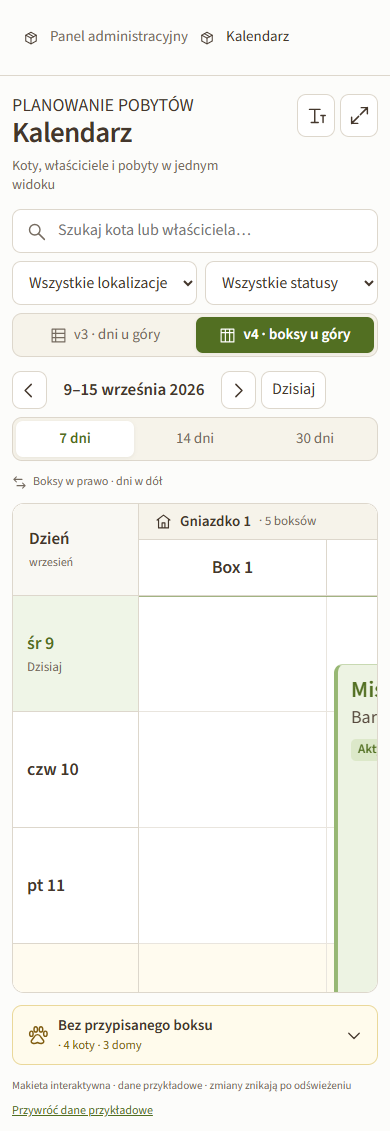
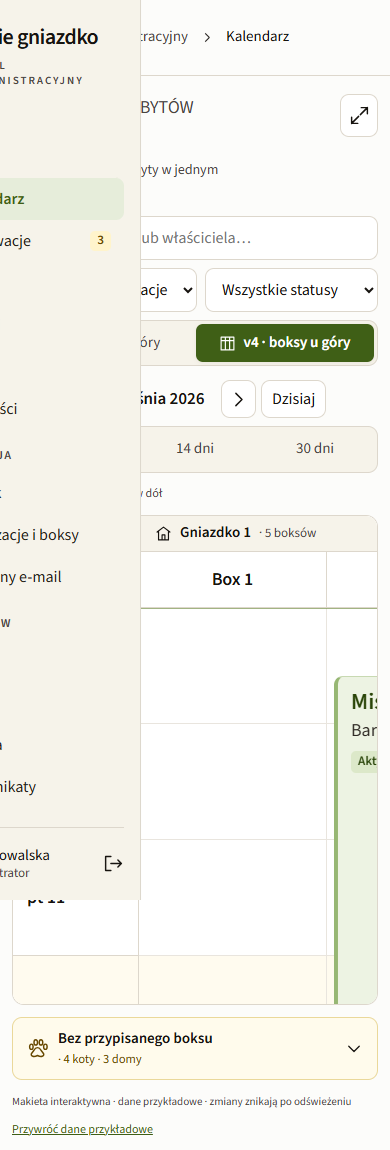
unify styles, improve contrast

diff --git a/mockups/admin/dashboard/mockup-dashboard.html b/mockups/admin/dashboard/mockup-dashboard.html
@@ -8,6 +8,13 @@
 <link href="https://fonts.googleapis.com/css2?family=Source+Sans+3:wght@400;500;600;700&display=swap" rel="stylesheet">
 <style>
 :root{--page:#FCFCFA;--subtle:#F6F3EA;--white:#fff;--selected:#EDF3E3;--ink:#44372C;--muted:#756C63;--line:#DDD7CC;--green:#526F22;--brand:#71942E;--yellow:#FFF4CC;--amber:#805D12;--blue:#285D7A;--blue-bg:#E8F2F8;--red:#9B3A2E}*{box-sizing:border-box}[hidden]{display:none!important}body{margin:0;background:var(--page);color:var(--ink);font:18px/1.5 'Source Sans 3',sans-serif;font-variant-numeric:tabular-nums}button,input,select{font:inherit}button,a,select{ -webkit-tap-highlight-color:transparent}button{cursor:pointer;color:inherit}button:focus-visible,a:focus-visible,select:focus-visible,input:focus-visible{outline:2px solid var(--green);outline-offset:4px}button{border:0;background:none}a{color:var(--green)}svg.icon{width:21px;height:21px;fill:none;stroke:currentColor;stroke-width:1.65;stroke-linecap:round;stroke-linejoin:round;flex-shrink:0}h1,h2,h3,p{margin:0}h1{font-size:32px;line-height:1.2;font-weight:600;letter-spacing:-.65px}h2{font-size:24px;line-height:1.3;font-weight:600;letter-spacing:-.4px}h3{font-size:18px;font-weight:600}.muted{color:var(--muted)}.small{font-size:15px}.sidebar{width:248px;position:fixed;inset:0 auto 0 0;display:flex;flex-direction:column;background:var(--subtle);border-right:1px solid var(--line);z-index:10}.brand{height:111px;padding:28px 25px 24px;display:flex;align-items:center;gap:12px;flex-shrink:0}.brand-mark{display:grid;place-items:center;width:43px;height:48px;color:var(--green)}.brand-mark svg{width:37px;height:37px;stroke-width:1.35}.brand-name{font-size:22px;line-height:1.02;font-weight:600;letter-spacing:-.6px}.brand-name small{display:block;font-size:11px;font-weight:600;letter-spacing:2px;color:var(--muted);margin-top:9px}.nav-scroll{overflow-y:auto;scrollbar-width:thin;flex:1;padding:0 16px 18px}.nav-group{margin-top:17px}.nav-group:first-child{margin-top:0}.nav-label{font-size:12px;letter-spacing:1.5px;font-weight:600;color:var(--muted);margin:0 14px 7px}.nav-item{display:flex;align-items:center;gap:12px;width:100%;text-align:left;font-size:16px;min-height:42px;padding:8px 13px;border-radius:8px;position:relative;color:#655a4e}.nav-item:hover{background:#ebe8dd}.nav-item.active{background:#e6edda;color:var(--green);font-weight:600}.nav-item.active:before{content:'';position:absolute;left:0;top:12px;bottom:12px;width:3px;border-radius:3px;background:var(--green)}.nav-count{margin-left:auto;background:var(--yellow);color:var(--amber);font-size:13px;font-weight:600;border-radius:5px;padding:0 7px}.profile{margin:0 16px;padding:18px 0;border-top:1px solid var(--line);display:flex;gap:10px;align-items:center;flex-shrink:0;font-size:15px}.avatar{width:38px;height:38px;border-radius:50%;background:#e6ddce;display:grid;place-items:center;font-size:14px;font-weight:600}.profile-text{line-height:1.3;flex:1}.profile-text small{font-size:13px;color:var(--muted)}.icon-button{display:grid;place-items:center;width:48px;height:48px;border-radius:10px}.icon-button:hover{background:var(--subtle)}.main{margin-left:248px}.topbar{height:76px;border-bottom:1px solid var(--line);display:flex;align-items:center;justify-content:space-between;padding:0 32px;background:var(--white);font-size:15px}.breadcrumb{display:flex;align-items:center;gap:12px}.breadcrumb svg{width:14px;height:14px;color:#a3988a}.top-right{display:flex;align-items:center;gap:22px}.top-right a{display:flex;align-items:center;gap:7px;text-decoration:none;color:var(--muted)}.top-right .icon{width:17px;height:17px}.topbar-state{display:flex;gap:7px;align-items:center;color:var(--muted)}.dot{width:6px;height:6px;background:var(--brand);border-radius:50%;display:inline-block}.content{max-width:1664px;margin:auto;padding:32px}.page-heading{display:flex;align-items:center;justify-content:space-between;gap:20px;margin-bottom:27px}.eyebrow{font-size:14px;color:var(--muted);margin-bottom:7px}.page-heading p{color:var(--muted);font-size:17px;margin-top:8px}.heading-actions{display:flex;align-items:center;gap:12px}.btn{display:inline-flex;align-items:center;justify-content:center;gap:8px;min-height:48px;padding:10px 16px;border:1px solid var(--line);border-radius:10px;background:var(--white);font-size:16px;font-weight:600;text-decoration:none;white-space:nowrap}.btn:hover{background:var(--subtle)}.btn.primary{background:var(--green);border-color:var(--green);color:white}.btn.primary:hover{background:#405719}.location{border:1px solid #8A8073;border-radius:10px;padding:11px 31px 11px 14px;min-height:48px;background:white;color:var(--ink);font-size:16px;max-width:100%}.stats{display:grid;grid-template-columns:repeat(4,minmax(0,1fr));gap:16px;margin-bottom:28px}.stat{background:white;border:1px solid var(--line);border-radius:12px;padding:18px 20px 17px;text-align:left;transition:border-color .15s}.stat:hover{border-color:var(--brand)}.stat-top{display:flex;align-items:center;justify-content:space-between;font-size:16px;color:var(--muted)}.stat-icon{width:34px;height:34px;display:grid;place-items:center;border-radius:9px;background:var(--subtle);color:var(--green)}.stat-number{font-size:36px;line-height:1.1;font-weight:600;letter-spacing:-1px;margin-top:10px}.stat-number span{font-size:16px;color:var(--muted);font-weight:400;letter-spacing:0}.stat-bottom{margin-top:8px;font-size:15px;color:var(--muted);display:flex;align-items:center;gap:6px}.stat-bottom svg{width:15px;height:15px}.stat.warm{background:#fffdf5}.stat.warm .stat-icon{background:var(--yellow);color:var(--amber)}.card{border:1px solid var(--line);border-radius:12px;background:white;overflow:hidden}.section-head{padding:23px 24px 19px;display:flex;align-items:center;justify-content:space-between;gap:12px}.title-line{display:flex;align-items:center;gap:10px}.count{display:inline-flex;align-items:center;justify-content:center;min-width:26px;height:26px;padding:0 8px;border-radius:7px;background:var(--subtle);font-size:14px;font-weight:600}.count.yellow{background:var(--yellow);color:var(--amber)}.section-head p{font-size:15px;color:var(--muted);margin-top:5px}.text-link{display:inline-flex;align-items:center;gap:7px;font-size:16px;font-weight:600;color:var(--green);padding:9px 0;text-decoration:none}.text-link .icon{width:17px;height:17px}.schedule{margin-bottom:24px}.schedule-tools{display:flex;align-items:center;justify-content:space-between;padding:0 24px 18px;gap:16px}.tabs{display:flex;align-items:center;gap:5px;background:var(--subtle);padding:4px;border-radius:10px}.tab{padding:8px 14px;font-size:16px;border-radius:7px;min-height:40px;color:var(--muted)}.tab.selected{background:white;color:var(--ink);font-weight:600;box-shadow:0 1px 4px #44372c12}.tab small{font-size:13px;margin-left:5px;color:var(--muted)}.table-wrap{overflow-x:auto}table{width:100%;border-collapse:collapse;font-size:16px;text-align:left}th{background:#faf9f5;border-top:1px solid #eee9e0;border-bottom:1px solid var(--line);color:var(--muted);font-size:14px;font-weight:500;padding:11px 13px}td{padding:17px 13px;border-bottom:1px solid #eeeae2;vertical-align:middle}th:first-child,td:first-child{padding-left:24px}th:last-child,td:last-child{padding-right:24px}tbody tr:last-child td{border-bottom:0}.time{font-size:18px;font-weight:600}.event{display:flex;gap:8px;align-items:center;font-size:15px;white-space:nowrap}.event .icon{width:18px;height:18px}.event.arrival{color:var(--green)}.event.departure{color:var(--blue)}.guest{display:flex;gap:10px;align-items:center}.cat-avatar{width:39px;height:39px;border-radius:50%;background:#f2ede3;color:#96754d;display:grid;place-items:center;flex-shrink:0}.cat-avatar.blue{background:#edf1f1;color:#718784}.cat-avatar.rose{background:#f7ece5;color:#a07f69}.guest-name{font-size:17px;font-weight:600;line-height:1.25}.subline{font-size:15px;color:var(--muted);margin-top:2px}.badge{display:inline-flex;align-items:center;gap:5px;font-size:14px;border-radius:6px;padding:3px 8px;white-space:nowrap;font-weight:500}.badge.green{background:var(--selected);color:var(--green)}.badge.blue{background:var(--blue-bg);color:var(--blue)}.badge.yellow{background:var(--yellow);color:var(--amber)}.badge.neutral{background:var(--subtle);color:var(--muted)}.money{font-size:15px;white-space:nowrap}.money.paid{color:var(--green);display:flex;gap:5px;align-items:center}.money svg{width:15px;height:15px}.money strong{font-weight:600}.row-action{border:1px solid var(--line);border-radius:8px;min-height:40px;padding:7px 12px;font-size:15px;font-weight:600;white-space:nowrap;color:var(--green)}.row-action:hover{border-color:var(--green);background:var(--selected)}.row-action.done{border:0;color:var(--muted);font-weight:400}.table-footer{padding:12px 24px;background:#fcfbf8;border-top:1px solid #eeeae2;font-size:14px;color:var(--muted);display:flex;gap:8px;align-items:center}.table-footer .icon{width:16px;height:16px}.two-col{display:grid;grid-template-columns:1.32fr 1fr;gap:24px;margin-bottom:24px}.request{padding:18px 24px;border-top:1px solid #eeeae2;display:flex;align-items:center;gap:13px;position:relative}.request:before{content:'';width:3px;position:absolute;left:0;top:19px;bottom:19px;background:#dfbb58;border-radius:0 3px 3px 0}.request-body{flex:1;min-width:0}.request-top{display:flex;align-items:center;gap:9px;margin-bottom:4px}.request-top strong{font-size:18px;font-weight:600}.request-bottom{display:flex;align-items:center;gap:9px;flex-wrap:wrap;font-size:15px;color:var(--muted)}.request-right{text-align:right;flex-shrink:0}.request-right .text-link{font-size:15px;min-height:40px}.request-right small{display:block;font-size:14px;color:var(--muted)}.box-note{font-size:14px;color:var(--amber);display:flex;gap:5px;align-items:center;margin-top:5px}.box-note .icon{width:14px;height:14px}.hotel-summary{margin:0 24px 19px;display:flex;align-items:center;gap:17px;padding:18px;background:var(--selected);border-radius:10px}.hotel-summary>svg{width:38px;height:38px;color:var(--green);stroke-width:1.3}.hotel-number{font-size:30px;font-weight:600;line-height:1.1;color:var(--green)}.hotel-number span{font-size:18px;font-weight:400;color:var(--ink)}.hotel-summary p{font-size:15px;color:#5f6c4d;margin-top:3px}.hotel-list{padding:0 24px}.hotel-location{padding:12px 0;display:flex;justify-content:space-between;align-items:center;border-top:1px solid #eeeae2;font-size:16px}.hotel-location>div{display:flex;gap:9px;align-items:center}.hotel-location svg{color:#938676;width:18px;height:18px}.hotel-location span{font-size:15px;color:var(--muted)}.hotel-footer{margin:10px 24px 0;padding:15px 0;border-top:1px solid #eeeae2;display:flex;justify-content:space-between;align-items:center;font-size:15px;color:var(--muted)}.hotel-footer .text-link{font-size:15px}.week{margin-bottom:24px}.week-head{display:flex;align-items:center;gap:18px}.legend{font-size:14px;color:var(--muted);display:flex;gap:13px}.legend span{display:flex;align-items:center;gap:6px}.legend i{width:7px;height:7px;border-radius:2px;background:#71942e}.legend span:last-child i{background:#6c96ac}.week-grid{display:grid;grid-template-columns:repeat(7,minmax(0,1fr));padding:0 24px 23px;gap:10px}.day{padding:14px 13px;border:1px solid #e7e1d7;border-radius:9px;text-align:left;background:#fff;min-height:139px}.day:hover{background:var(--subtle);border-color:var(--brand)}.day:first-child{background:#f5f7ef;border-color:#b6c69c}.day-label{font-size:14px;color:var(--muted);display:flex;justify-content:space-between;gap:4px}.day-date{font-size:23px;font-weight:600;margin:1px 0 12px;letter-spacing:-.5px}.day-date span{font-size:14px;font-weight:400;letter-spacing:0;color:var(--muted)}.day-count{font-size:14px;display:flex;gap:6px;align-items:center;line-height:1.65}.day-count .icon{width:15px;height:15px;color:var(--green)}.day-count:last-child .icon{color:var(--blue)}.bottom-col{display:grid;grid-template-columns:1fr 1fr;gap:24px}.attention .section-head .icon{color:var(--amber)}.attention-item{margin:0 24px;padding:17px 0;border-top:1px solid #eeeae2;display:flex;gap:12px;align-items:flex-start}.attention-symbol{width:29px;height:29px;display:grid;place-items:center;color:var(--amber);background:var(--yellow);border-radius:7px;flex-shrink:0}.attention-symbol.error{background:#FCEBE7;color:var(--red)}.attention-symbol svg{width:17px;height:17px}.attention-item>div:nth-child(2){flex:1}.attention-item h3{font-size:16px}.attention-item p{font-size:15px;color:var(--muted);margin-top:4px;line-height:1.45}.attention-item>button{color:var(--muted);min-height:40px;min-width:28px}.settlement-row{margin:0 24px;border-top:1px solid #eeeae2;padding:15px 0;display:flex;align-items:center;gap:12px}.settlement-row>div:nth-child(2){flex:1}.settlement-value{text-align:right;font-size:18px;font-weight:600}.settlement-value small{display:block;font-weight:400;font-size:14px;color:var(--muted)}.settlement-row .guest-name{font-size:16px}.settlement-row .subline{font-size:14px}.footer{display:flex;justify-content:space-between;gap:12px;color:var(--muted);font-size:13px;margin-top:25px;padding-bottom:4px}.footer span:last-child{display:flex;align-items:center;gap:7px}.empty{padding:35px 24px;text-align:center;color:var(--muted)}.mobile-menu{display:none}.drawer{position:fixed;inset:0 0 0 auto;width:520px;max-width:100%;margin:0 0 0 auto;height:100%;max-height:100%;border:0;border-left:1px solid var(--line);padding:0;color:var(--ink);background:var(--page);box-shadow:-12px 0 50px #44372c15}.drawer::backdrop{background:#30271f55;backdrop-filter:blur(2px)}.drawer-heading{padding:24px;border-bottom:1px solid var(--line);display:flex;justify-content:space-between;align-items:center;background:white}.drawer-content{padding:26px}.drawer-content h2{margin:15px 0 5px}.detail-section{border-top:1px solid var(--line);margin-top:24px;padding-top:22px}.detail-section h3{margin-bottom:14px}.detail-line{display:flex;justify-content:space-between;gap:15px;margin:10px 0;font-size:16px}.detail-line span:first-child{color:var(--muted)}.detail-notice{background:var(--subtle);border-radius:10px;padding:16px;font-size:16px;margin-top:20px}.drawer-content .btn{margin-top:24px;width:100%}.search-input{border:1px solid #8A8073;min-height:48px;border-radius:9px;width:100%;padding:10px 14px;margin-top:18px;background:white}.list-record{padding:16px 0;border-bottom:1px solid var(--line);display:flex;justify-content:space-between;gap:15px}.list-record button{text-align:right;color:var(--green);font-size:15px}.drawer-content .request{padding-left:15px;padding-right:0}.toast{position:fixed;bottom:25px;left:calc(50% + 124px);transform:translateX(-50%);padding:13px 20px;border:1px solid #b6c69c;background:var(--selected);color:var(--green);border-radius:10px;box-shadow:0 6px 25px #44372c16;font-size:16px;z-index:30;max-width:90vw}.toast[hidden]{display:none}@media(min-width:1700px){td{padding-top:21px;padding-bottom:21px}.content{padding-top:40px}.stats{gap:24px}}@media(max-width:1250px){.heading-actions{flex-wrap:wrap;justify-content:flex-end}.section-head{padding-left:20px;padding-right:20px}.content{padding:24px}.two-col{grid-template-columns:1.15fr 1fr}.request{padding:16px}.cat-avatar{display:none}.week-grid{gap:6px;padding-left:16px;padding-right:16px}.day{padding:10px 8px}.legend{display:none}.table-wrap table{min-width:920px}.stat{padding:16px}.nav-item{font-size:15px}}@media(max-width:1023px){.sidebar{transform:translateX(-100%);transition:transform .2s}.sidebar.open{transform:translateX(0);box-shadow:8px 0 50px #44372c30}.main{margin-left:0}.mobile-menu{display:grid}.topbar{padding:0 24px}.breadcrumb{gap:8px}.topbar-state{display:none}.toast{left:50%}}@media(max-width:767px){.content{padding:22px 16px}.page-heading{align-items:flex-start;flex-direction:column}.heading-actions{justify-content:flex-start;width:100%;flex-wrap:wrap}.heading-actions .btn{flex:1}.location{flex:1}.stats{grid-template-columns:1fr 1fr;gap:12px}.stat-number{font-size:32px}.two-col,.bottom-col{grid-template-columns:1fr;gap:20px}.topbar{padding:0 16px;height:65px}.top-right{display:none}.section-head{padding:20px 16px;flex-wrap:wrap}h2{font-size:22px}.schedule-tools{padding:0 16px 16px;flex-wrap:wrap}.schedule-tools>.small{display:none}.tab{padding:8px 10px}.week-grid{overflow-x:auto;grid-template-columns:repeat(7,120px)}.week-head{display:none}.footer{flex-direction:column}.request-right{max-width:120px}.request-top{flex-wrap:wrap}.request-top .badge{display:none}.guest-name{font-size:16px}.day-count{font-size:14px}.table-footer{padding:12px 16px}.topbar .breadcrumb>span:first-of-type{display:none}.stat-top{font-size:15px}.stat-bottom{font-size:14px}.stat-icon{width:28px;height:28px}.stat{padding:15px}.drawer-content{padding:22px}.footer{font-size:13px}}@media(prefers-reduced-motion:reduce){*{transition:none!important;scroll-behavior:auto!important}}@media print{.sidebar{position:absolute;height:100%;width:220px}.main{margin-left:220px}.nav-scroll{overflow:visible}.profile{display:none}.content{padding:22px}.topbar{height:60px}.card,.stat{break-inside:avoid}.drawer,.toast{display:none}body{print-color-adjust:exact;-webkit-print-color-adjust:exact}}
+/* Readability and fluid container rules shared with the calendar mockup. */
+:root{--ink:#16130f;--muted:#4b453f;--green:#3f5f16;--brand:#52751c;--amber:#674800;--blue:#18516f;--red:#86281e}
+.content{max-width:none;width:100%;margin:0}
+.nav-item{color:#24201b}.nav-label,.topbar-state,.eyebrow,.page-heading p,.section-head p,.subline,.small,.muted{color:var(--muted)}
+.btn.primary{background:#3f5f16;border-color:#3f5f16}.text-link,.row-action,a{color:#3f5f16}
+.badge.green{color:#294408}.badge.blue{color:#124662}.badge.yellow,.count.yellow{color:#674800}.attention-symbol,.box-note{color:#674800}.attention-symbol.error{color:#86281e}
+.stat-top,.tab,th,.table-footer,.request-bottom,.request-right small,.hotel-footer,.legend,.day-label,.day-date span,.footer{color:var(--muted)}
 </style>
 </head>
 <body>

diff --git a/mockups/admin/kalendarz/mockup-kalendarz.html b/mockups/admin/kalendarz/mockup-kalendarz.html
@@ -25,41 +25,20 @@
   .nav-scroll{overflow-y:auto;scrollbar-width:thin;flex:1;padding:0 16px 18px}.nav-group{margin-top:17px}.nav-group:first-child{margin-top:0}.nav-label{font-size:12px;letter-spacing:1.5px;font-weight:600;color:var(--muted);margin:0 14px 7px}.nav-item{display:flex;align-items:center;gap:12px;width:100%;text-align:left;font-size:16px;min-height:42px;padding:8px 13px;border-radius:8px;position:relative;color:#655a4e;text-decoration:none;margin-bottom:0}.nav-item:hover{background:#ebe8dd}.nav-item.active{background:#e6edda;color:var(--green);font-weight:600}.nav-item.active:before{content:'';position:absolute;left:0;top:12px;bottom:12px;width:3px;border-radius:3px;background:var(--green)}.nav-count{margin-left:auto;background:var(--yellow);color:var(--amber);font-size:13px;font-weight:600;border-radius:5px;padding:0 7px}
   .profile{margin:0 16px;padding:18px 0;border-top:1px solid var(--line);display:flex;gap:10px;align-items:center;flex-shrink:0;font-size:15px}.profile-text{line-height:1.3;flex:1}.profile-text small{font-size:13px;color:var(--muted)}.main{margin-left:248px}.topbar{height:76px;padding:0 32px;background:var(--white);font-size:15px}.breadcrumb{gap:12px}.top-right{display:flex;align-items:center;gap:22px}.top-right .text-link{color:var(--muted);font-weight:400}
   @media(max-width:1023px){.sidebar{transform:translateX(-100%);transition:transform .2s}.sidebar.open{transform:translateX(0);box-shadow:8px 0 50px #44372c30}.main{margin-left:0}.mobile-menu{display:grid}.topbar{padding:0 24px}.top-right{display:none}}
-  </style>
+  /* Match the dashboard shell at every desktop width; only the mobile menu collapses. */
+  @media (min-width:1024px) and (max-width:1190px){.sidebar{width:248px!important;padding:0!important}.brand{padding:28px 25px 24px}.brand-name,.nav-label,.nav-item span,.profile-text{display:block}.nav-item{justify-content:flex-start;padding:8px 13px}.profile{justify-content:flex-start}.main{margin-left:248px}.topbar{padding:0 32px}.content{padding:24px}}
+  :root{--ink:#16130f;--muted:#4b453f;--green:#3f5f16;--brand:#52751c;--amber:#674800;--blue:#18516f;--red:#86281e}
+  body{font:18px/1.5 Source,'Source Sans 3',sans-serif;font-variant-numeric:tabular-nums;color:var(--ink)}.content{max-width:none;width:100%;margin:0}.mobile-menu{display:none}.nav-item{color:#24201b}.nav-label,.topbar-state,.eyebrow,.heading p,.small,.muted{color:var(--muted)}.btn.primary{background:#3f5f16;border-color:#3f5f16}.text-link,a{color:#3f5f16}.axis-item{color:var(--ink)}.axis-item.today{color:#294408}.axis-item small,.axis-group small,.corner small,.calendar-meta,.empty-state,.other-pet small{color:var(--muted)}.stay{color:#124662}.stay.green{color:#294408}.stay.yellow{color:#674800}.owner{color:#2e2924!important}.status-badge{color:#124662}.green .status-badge{color:#294408}.yellow .status-badge{color:#674800}.panel .pet-owner,.panel h4,.detail-line,.radio-row,.locked-summary,.notice{color:var(--ink)}.detail-line span:first-child{color:var(--muted)}.queue-label small,.queue-label>.icon{color:#674800}.footer{color:var(--muted)}
+  @media (min-width:1024px){.content{padding:32px}.heading h1{font-size:32px;line-height:1.2;font-weight:600;letter-spacing:-.65px}.heading p{font-size:17px;margin-top:8px}.section-head h2{font-size:24px;line-height:1.3;font-weight:600}}
+  @media (max-width:1023px){.sidebar{display:flex;width:248px!important;padding:0!important}.brand{padding:28px 25px 24px}.brand-name,.nav-label,.nav-item span,.profile-text{display:block}.nav-item{justify-content:flex-start;padding:8px 13px}.profile{justify-content:flex-start}.main{margin-left:0}}
+</style>
 </head>
 <body>
-<aside class="sidebar" aria-label="Nawigacja główna">
- <div class="brand"><span class="brand-mark" data-icon="cat"></span><span class="brand-name">kocie gniazdko<small>PANEL ADMINISTRACYJNY</small></span></div>
- <nav class="nav-scroll">
-  <a class="nav-item" href="../dashboard/mockup-dashboard.html" title="Dzisiaj"><span data-icon="home"></span><span>Dzisiaj</span></a>
-  <a class="nav-item active" href="mockup-kalendarz.html" aria-current="page" title="Kalendarz"><span data-icon="calendar"></span><span>Kalendarz</span></a>
-  <button class="nav-item" data-nav="Rezerwacje" title="Rezerwacje"><span data-icon="clipboard"></span><span>Rezerwacje</span><span class="nav-count">3</span></button>
-  <div class="nav-label">BAZA</div>
-  <button class="nav-item" data-nav="Klienci" title="Klienci"><span data-icon="users"></span><span>Klienci</span></button>
-  <button class="nav-item" data-nav="Koty" title="Koty"><span data-icon="cat"></span><span>Koty</span></button>
-  <button class="nav-item" data-nav="Płatności" title="Płatności"><span data-icon="wallet"></span><span>Płatności</span></button>
-  <div class="nav-label">ORGANIZACJA</div>
-  <button class="nav-item" data-nav="Cennik" title="Cennik"><span data-icon="tag"></span><span>Cennik</span></button>
-  <button class="nav-item" data-nav="Lokalizacje i boksy" title="Lokalizacje i boksy"><span data-icon="box"></span><span>Lokalizacje i boksy</span></button>
-  <div class="nav-label">SYSTEM</div>
-  <button class="nav-item" data-nav="Szablony e-mail" title="Szablony e-mail"><span data-icon="mail"></span><span>Szablony e-mail</span></button>
-  <div class="nav-label">STRONA WWW</div>
-  <button class="nav-item" data-nav="Treści" title="Treści"><span data-icon="file"></span><span>Treści</span></button>
-  <button class="nav-item" data-nav="FAQ" title="FAQ"><span data-icon="help"></span><span>FAQ</span></button>
-  <button class="nav-item" data-nav="Galeria" title="Galeria"><span data-icon="image"></span><span>Galeria</span></button>
-  <button class="nav-item" data-nav="Komunikaty" title="Komunikaty"><span data-icon="megaphone"></span><span>Komunikaty</span></button>
-  <div class="nav-label">DANE</div>
-  <button class="nav-item" data-nav="Eksporty" title="Eksporty"><span data-icon="download"></span><span>Eksporty</span></button>
-  <button class="nav-item" data-nav="Dziennik zmian" title="Dziennik zmian"><span data-icon="history"></span><span>Dziennik zmian</span></button>
-  <div class="nav-label">SYSTEM</div>
-  <button class="nav-item" data-nav="Ustawienia" title="Ustawienia"><span data-icon="settings"></span><span>Ustawienia</span></button>
- </nav>
- <div class="profile"><span class="avatar">AK</span><span class="profile-text">Anna Kowalska<br><small>Administrator</small></span><button class="icon-button" aria-label="Wyloguj" data-info="Wylogowanie" data-icon="logout"></button></div>
-</aside>
+<aside class="sidebar" aria-label="Nawigacja główna"><div class="brand"><span class="brand-mark" data-icon="cat"></span><div class="brand-name">kocie gniazdko<small>PANEL ADMINISTRACYJNY</small></div></div><nav class="nav-scroll" id="navigation"></nav><div class="profile"><div class="avatar">AK</div><div class="profile-text">Anna Kowalska<br><small>Administrator</small></div><button class="icon-button" aria-label="Wyloguj" data-info="Wylogowanie" data-icon="logout"></button></div></aside>
 <main class="main">
  <header class="topbar"><div class="breadcrumb"><button class="icon-button mobile-menu" aria-label="Otwórz menu" id="menu" data-icon="menu"></button><span class="muted">Panel administracyjny</span><span data-icon="chevron"></span><span>Kalendarz</span></div><div class="top-right"><span class="topbar-state"><i class="dot"></i> Środa, 9 września 2026</span><button class="text-link" data-info="Strona WWW">Strona WWW <span data-icon="external"></span></button></div></header>
  <div class="content">
-  <div class="heading"><div><div class="eyebrow">PLANOWANIE POBYTÓW</div><h1>Kalendarz</h1><p>Koty, właściciele i pobyty w jednym widoku</p></div><div class="heading-actions"><button id="text-size" class="btn" aria-pressed="false" title="Zwiększ tekst"><span data-icon="type"></span><span class="button-label">Tekst: standardowy</span></button><button id="fullscreen" class="btn" aria-pressed="false" title="Pełny ekran"><span data-icon="expand"></span><span class="button-label">Pełny ekran</span></button></div></div>
+  <div class="heading"><div><div class="eyebrow">PLANOWANIE POBYTÓW</div><h1>Kalendarz</h1><p>Koty, właściciele i pobyty w jednym widoku</p></div><div class="heading-actions"><button id="fullscreen" class="btn" aria-pressed="false" title="Pełny ekran"><span data-icon="expand"></span><span class="button-label">Pełny ekran</span></button></div></div>
   <div class="tools">
    <label class="search"><span data-icon="search"></span><input id="search" type="search" placeholder="Szukaj kota lub właściciela…" aria-label="Szukaj kota lub właściciela"></label>
    <select id="location" aria-label="Lokalizacja"><option value="all">Wszystkie lokalizacje</option><option value="1">Gniazdko 1</option><option value="2">Gniazdko 2</option></select>
@@ -85,6 +64,10 @@
 const paths={cat:'M5 10 3 3l7 4h4l7-4-2 7v5c0 4-4 6-7 6s-7-2-7-6Z M8 12h.01M16 12h.01M11 15h2m-1 0v2m-6-2-4-1m4 3-4 1m16-3 4-1m-4 3 4 1',home:'m3 10 9-7 9 7M5 9v12h14V9M10 21v-7h4v7',calendar:'M5 5h14a2 2 0 0 1 2 2v13H3V7a2 2 0 0 1 2-2ZM7 3v4m10-4v4M3 10h18M7 14h3m4 0h3m-10 3h3',users:'M15 21v-3a4 4 0 0 0-4-4H7a4 4 0 0 0-4 4v3m14-7a4 4 0 0 1 4 4v3M13 6a4 4 0 1 1-8 0 4 4 0 0 1 8 0Zm3-3a4 4 0 0 1 0 8',wallet:'M4 5h15v15H4a2 2 0 0 1-2-2V6a2 2 0 0 1 2-2h13M15 11h6v5h-6Zm3 2.5h.01',tag:'M3 3h8l10 10-8 8L3 11Zm4 4h.01',box:'m12 3 9 5v10l-9 5-9-5V8Zm0 10 9-5M3 8l9 5v10M7 5l10 6',settings:'m10 3 4 0 1 3 3 1 3 3-2 3 0 3-3 3-3-1-3 1-3-3 0-3-2-3 3-3 3-1ZM15 12a3 3 0 1 1-6 0 3 3 0 0 1 6 0Z',search:'M16 10a6 6 0 1 1-12 0 6 6 0 0 1 12 0Zm-1 5 6 6',left:'m14 5-7 7 7 7',right:'m9 5 7 7-7 7',down:'m5 9 7 7 7-7',close:'m6 6 12 12M18 6 6 18',expand:'M14 3h7v7m0-7-8 8M10 21H3v-7m0 7 8-8',type:'M4 5h12M10 5v15m-4 0h8m3-8h5m-2.5 0v8',rows:'M3 3h18v18H3ZM3 9h18M3 15h18M8 3v18',columns:'M3 3h18v18H3ZM9 3v18M15 3v18M3 8h18',scroll:'m7 3-4 4 4 4M3 7h13m1 6 4 4-4 4m4-4H8',lock:'M6 10h12v11H6Zm2 0V7a4 4 0 0 1 8 0v3m-4 4v3',move:'M3 7h17m-4-4 4 4-4 4M21 17H4m4-4-4 4 4 4',grip:'M8 5h.01M16 5h.01M8 12h.01M16 12h.01M8 19h.01M16 19h.01',paw:'M8 14c2-4 6-4 8 0l3 4c1 3-3 4-7 2-4 2-8 1-7-2Zm-5-4a2 3 0 1 0 4 0 2 3 0 1 0-4 0Zm5-5a2 3 0 1 0 4 0 2 3 0 1 0-4 0Zm6 0a2 3 0 1 0 4 0 2 3 0 1 0-4 0Zm5 5a2 3 0 1 0 4 0 2 3 0 1 0-4 0Z'};
 const icon=n=>`<svg class="icon" viewBox="0 0 24 24" aria-hidden="true"><path d="${paths[n]||paths.box}"/></svg>`;
 function icons(root=document){root.querySelectorAll('[data-icon]').forEach(e=>e.outerHTML=icon(e.dataset.icon));}
+Object.assign(paths,{clipboard:'M9 4H5v17h14V4h-4M9 3h6v4H9ZM8 12h8M8 16h5',mail:'M3 5h18v14H3ZM3 5l9 8 9-8',file:'M14 2H4v20h16V8ZM14 2v6h6M8 12h8M8 16h6',help:'M9 9a3 3 0 1 1 5 2c-2 1-2 2-2 3M12 17h.01M12 22a10 10 0 1 0 0-20 10 10 0 0 0 0 20',image:'M3 3h18v18H3ZM3 17l5-5 4 4 3-3 6 6M15 7h.01',megaphone:'M4 9h5l11-5v16L9 15H4ZM7 15l2 6h3l-2-6',download:'M12 3v12M7 10l5 5 5-5M3 16v5h18v-5',history:'M3 11a9 9 0 1 1 2 7M3 4v7h7M12 7v6l4 2',logout:'M9 4H3v16h6M9 12h12M17 8l4 4-4 4',chevron:'m9 5 7 7-7 7',external:'M14 3h7v7M21 3 11 13M10 3H3v18h18v-7',menu:'M3 6h18M3 12h18M3 18h18'});
+const nav=[['Operacje',[['Dzisiaj','home'],['Kalendarz','calendar'],['Rezerwacje','clipboard']]],['Baza',[['Klienci','users'],['Koty','cat'],['Płatności','wallet']]],['Organizacja',[['Cennik','tag'],['Lokalizacje i boksy','box'],['Szablony e-mail','mail']]],['Strona WWW',[['Treści','file'],['FAQ','help'],['Galeria','image'],['Komunikaty','megaphone']]],['Dane',[['Eksporty','download'],['Dziennik zmian','history']]],['System',[['Ustawienia','settings']]]];
+const navLinks={Dzisiaj:'../dashboard/mockup-dashboard.html',Kalendarz:'mockup-kalendarz.html'};
+document.querySelector('#navigation').innerHTML=nav.map(([group,items])=>`<div class="nav-group"><div class="nav-label">${group.toUpperCase()}</div>${items.map(([name,i])=>`<a class="nav-item ${name==='Kalendarz'?'active':''}" ${name==='Kalendarz'?'aria-current="page"':''} href="${navLinks[name]||'#'}" ${navLinks[name]?'':'data-nav="'+name+'"'}>${icon(i)}${name}${name==='Rezerwacje'?'<span class="nav-count">3</span>':''}</a>`).join('')}</div>`).join('');
 const $=s=>document.querySelector(s),DAY=86400000,dt=(d,h=0)=>Date.UTC(2026,8,d,h),TODAY=dt(9);
 const esc=s=>String(s).replace(/[&<>"']/g,c=>({'&':'&amp;','<':'&lt;','>':'&gt;','"':'&quot;',"'":'&#39;'}[c]));
 const fmt=(v,options={day:'numeric',month:'short'})=>new Intl.DateTimeFormat('pl-PL',{...options,timeZone:'UTC'}).format(v);
@@ -98,7 +81,7 @@ const pets=[
 const petById=id=>pets.find(p=>p.id===id);
 const fresh=()=>pets.map(p=>({id:p.id,pet:p.id,start:p.start,end:p.end,box:p.box}));
 let stays=fresh(),serial=0,layout=null,drag=null,lastFocus=null;
-const state={orientation:'v4',start:TODAY,days:7,location:'all',status:'all',query:'',large:false,fullscreen:false,selected:null,draft:null,queue:false};
+const state={orientation:'v4',start:TODAY,days:7,location:'all',status:'all',query:'',fullscreen:false,selected:null,draft:null,queue:false};
 const color=p=>p.status==='W hotelu'?'blue':p.status==='Aktywna'?'green':'yellow';
 const household=p=>pets.filter(o=>o.owner===p.owner).length>1?'<span class="household" title="Koty z tego samego domu" aria-label="Wspólny dom"></span>':'';
 const matches=p=>(state.status==='all'||p.status===state.status)&&`${p.name} ${p.owner}`.toLocaleLowerCase('pl').includes(state.query.toLocaleLowerCase('pl'));
@@ -107,11 +90,10 @@ function notify(message){$('#toast').textContent=message;$('#toast').hidden=fals
 function announce(message){$('#live').textContent=message;}
 function periodLabel(){const end=state.start+(state.days-1)*DAY;return fmt(state.start,{month:'numeric'})===fmt(end,{month:'numeric'})?`${fmt(state.start,{day:'numeric'})}–${fmt(end,{day:'numeric',month:'long',year:'numeric'})}`:`${fmt(state.start)} – ${fmt(end,{day:'numeric',month:'short',year:'numeric'})}`;}
 function render(){
- document.body.classList.toggle('large-text',state.large);document.body.classList.toggle('fullscreen',state.fullscreen);
+ document.body.classList.toggle('fullscreen',state.fullscreen);
  $('#date-range').textContent=periodLabel();$('#axis-help').textContent=state.orientation==='v4'?'Boksy w prawo · dni w dół':'Dni w prawo · boksy w dół';
  document.querySelectorAll('[data-orientation]').forEach(b=>b.setAttribute('aria-pressed',b.dataset.orientation===state.orientation));
  document.querySelectorAll('[data-days]').forEach(b=>b.setAttribute('aria-pressed',+b.dataset.days===state.days));
- $('#text-size').setAttribute('aria-pressed',state.large);$('#text-size .button-label').textContent=state.large?'Tekst: duży':'Tekst: standardowy';
  $('#fullscreen').setAttribute('aria-pressed',state.fullscreen);$('#fullscreen .button-label').textContent=state.fullscreen?'Wyjdź z pełnego ekranu':'Pełny ekran';$('#fullscreen').title=state.fullscreen?'Wyjdź z pełnego ekranu (Esc)':'Pełny ekran';
  $('#workspace').classList.toggle('has-panel',!!state.selected);$('#panel').hidden=!state.selected;
  $('#move-banner').hidden=!state.draft;$('#move-help').textContent=state.draft?(state.draft.assign?'Przypisanie boksu':'Przenoszenie '+(state.orientation==='v4'?'w poziomie':'w pionie'))+' · daty pozostają bez zmian':'';
@@ -127,7 +109,7 @@ function displayStays(){
 }
 function computeLayout(){
  const vertical=state.orientation==='v4',L=vertical?126:168,H=vertical?92:64;
- const unit=vertical?(state.large?145:116):(state.large?160:142),lane=vertical?(state.large?226:188):(state.large?112:92);
+ const unit=vertical?116:142,lane=vertical?188:92;
  const records=displayStays().filter(r=>state.location==='all'||boxes.find(b=>b.id===r.box).loc===+state.location),groups=[],cols=[];let cursor=0;
  for(const loc of [1,2]){
   if(state.location!=='all'&&+state.location!==loc)continue;
@@ -223,7 +205,6 @@ document.addEventListener('click',e=>{
   case 'previous':state.start-=state.days*DAY;render();resetScroll();break;
   case 'next':state.start+=state.days*DAY;render();resetScroll();break;
   case 'today':state.start=TODAY;render();resetScroll();break;
-  case 'text-size':state.large=!state.large;render();break;
   case 'fullscreen':state.fullscreen=!state.fullscreen;render();break;
   case 'queue-toggle':state.queue=!state.queue;renderQueue();break;
   case 'close-panel':closePanel();break;
